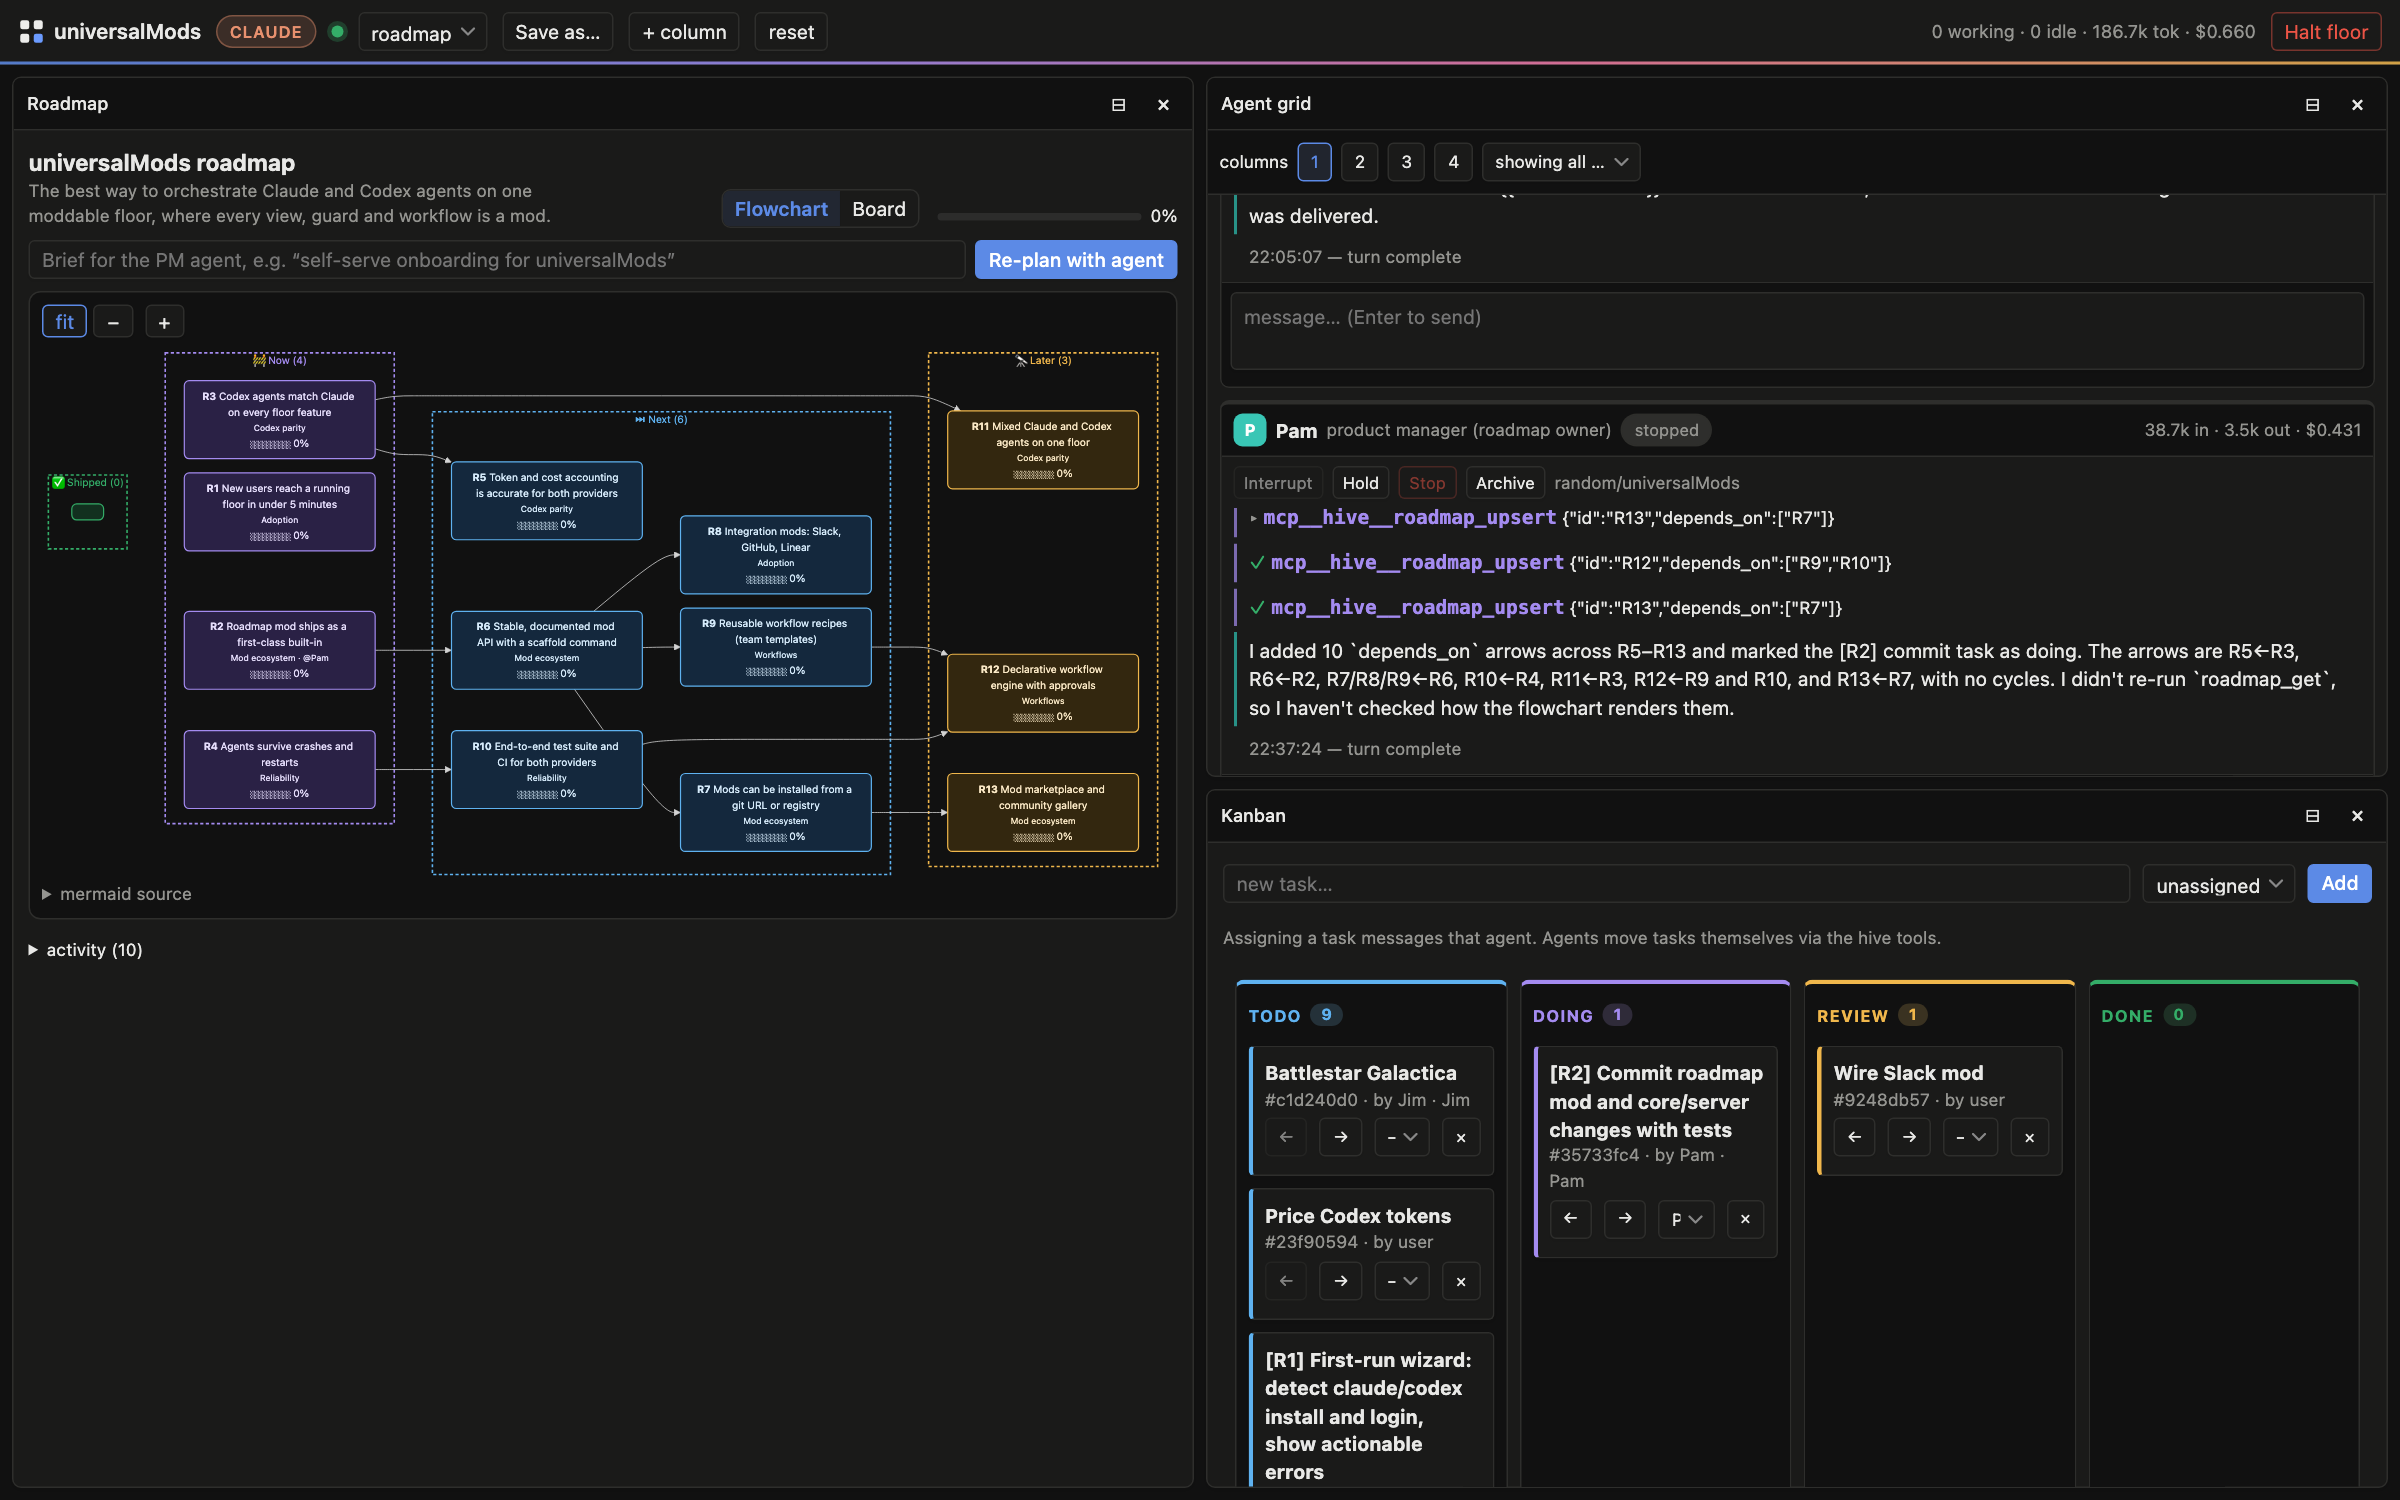
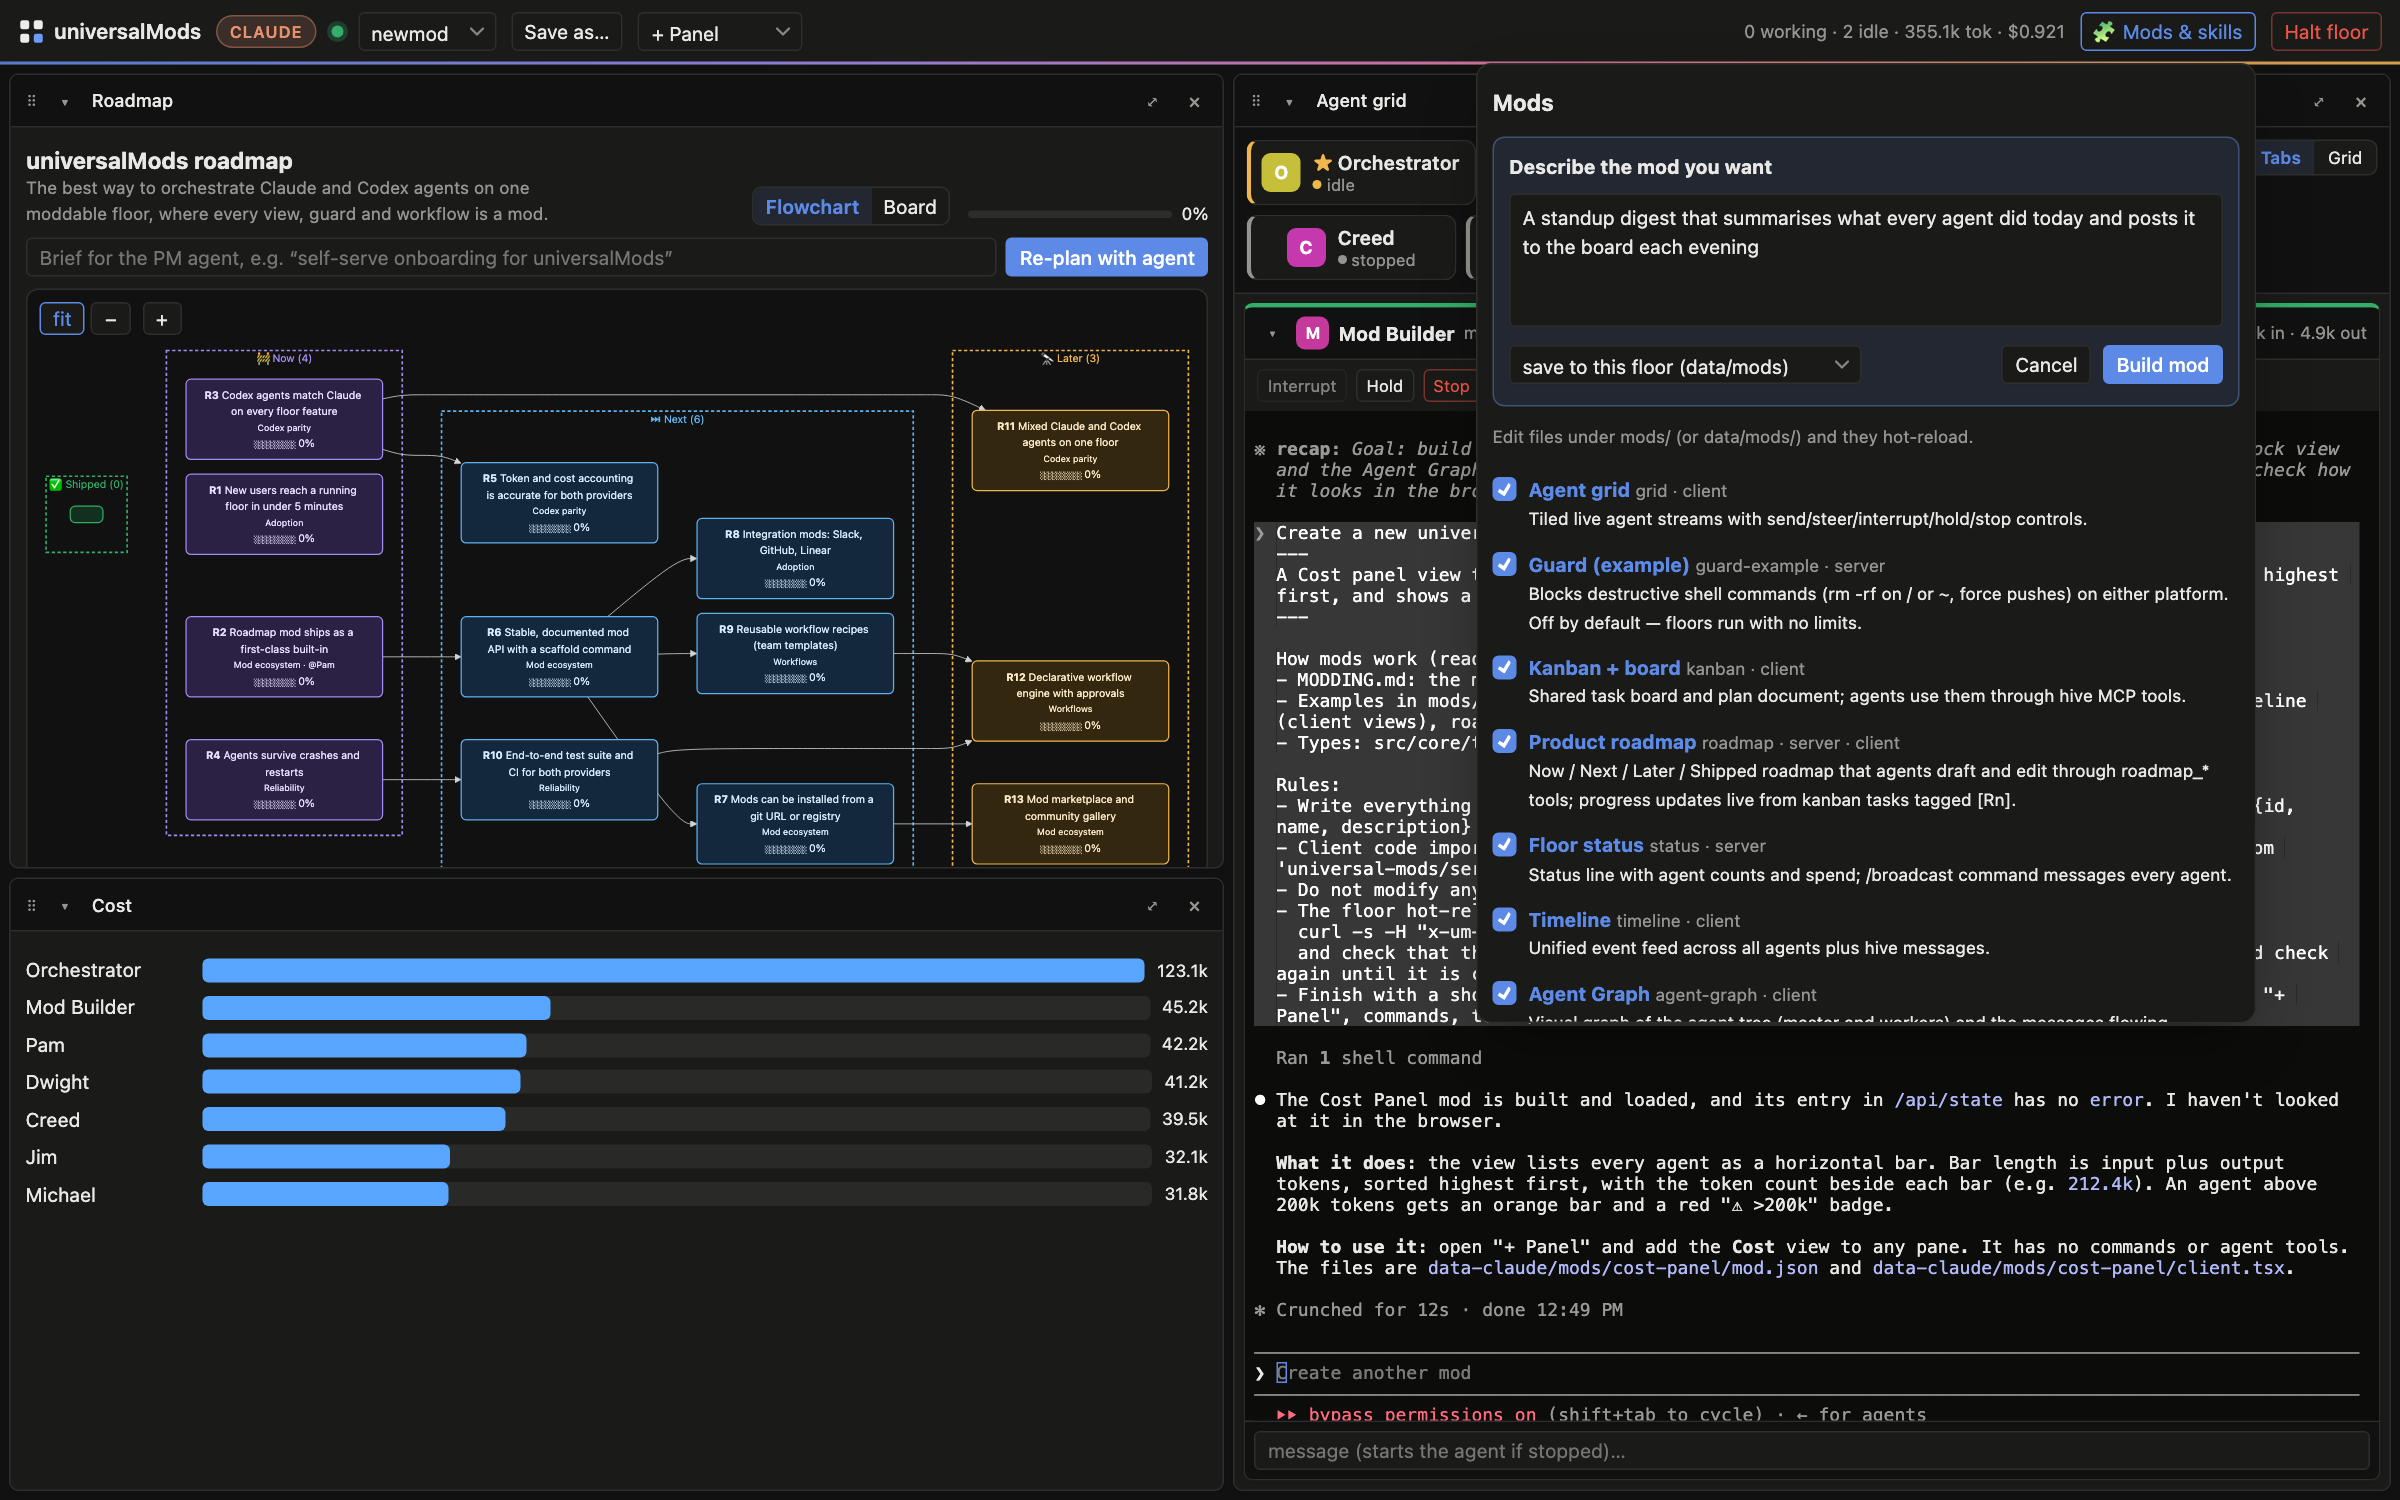
Showcase layout, refreshed screenshots, npm run screenshots
- Built-in 'showcase' layout: agent tiles + live terminal | roadmap flowchart over kanban
- scripts/screenshots.mjs (npm run screenshots) regenerates docs/screenshots via headless Chrome
- New screenshots for README and GitHub Pages; Pages features updated (live terminals,
  mods from a sentence) and quick start mentions ?layout=showcase
- Mod Builder briefs use project-relative paths
- Client mod loading retries with a fresh URL and toasts once instead of on every update

diff --git a/docs/index.html b/docs/index.html
@@ -8,7 +8,7 @@
     <link rel="icon" type="image/svg+xml" href="favicon.svg" />
     <meta property="og:title" content="universalMods" />
     <meta property="og:description" content="Munder Difflin-style agent orchestration meets Claude Code mods, for Codex and Claude Code, in the browser." />
-    <meta property="og:image" content="https://samridh3215.github.io/universalMods/screenshots/roadmap.png" />
+    <meta property="og:image" content="https://samridh3215.github.io/universalMods/screenshots/floor.png" />
     <meta name="twitter:card" content="summary_large_image" />
     <meta name="theme-color" media="(prefers-color-scheme: light)" content="#f0f0ed" />
     <meta name="theme-color" media="(prefers-color-scheme: dark)" content="#111111" />
@@ -150,8 +150,8 @@
           <a class="btn" href="https://github.com/samridh3215/universalMods">View on GitHub</a>
           <a class="btn" href="https://github.com/samridh3215/universalMods/blob/main/MODDING.md">Write a mod</a>
         </div>
-        <div class="shot dark-only"><img src="screenshots/floor.png" alt="The universalMods floor: live agent grid with a + tile to spawn agents, kanban and mods" /></div>
-        <div class="shot light-only"><img src="screenshots/roadmap-light.png" alt="The universalMods floor with the roadmap flowchart" /></div>
+        <div class="shot dark-only"><img src="screenshots/floor.png" alt="The universalMods showcase layout: agent tiles with the orchestrator's live terminal, the roadmap flowchart and the kanban" /></div>
+        <div class="shot light-only"><img src="screenshots/roadmap-light.png" alt="The universalMods showcase layout in light mode" /></div>
       </div>
     </header>
 
@@ -178,14 +178,14 @@
         <h2>What you get</h2>
         <p class="sub">A thin shell, with everything else built as a mod you can change.</p>
         <div class="grid">
-          <div class="card" style="--c: var(--accent)"><h3><span class="icon">🚀</span> Spawn and steer</h3><p>Spawn agents with their own working directory or git worktree, model, effort and skills. Watch them live, then steer mid-turn, interrupt, hold or stop.</p></div>
+          <div class="card" style="--c: var(--accent)"><h3><span class="icon">🖥</span> Live terminals</h3><p>Every agent runs its real CLI. Click its tile and its terminal fills the pane: watch it work, type into it, or queue messages. A permanent master orchestrator is always there.</p></div>
           <div class="card" style="--c: var(--violet)"><h3><span class="icon">🐝</span> A shared hive</h3><p>Every agent gets hive tools: a kanban, a plan board, messages to other agents, spawning teammates, and <code>ask_user</code> when stuck.</p></div>
           <div class="card" style="--c: var(--pink)"><h3><span class="icon">🗺</span> Live roadmap</h3><p>A PM agent drafts a roadmap from your brief and renders it as a Mermaid flowchart. Progress moves as tagged kanban tasks get done.</p></div>
           <div class="card" style="--c: var(--amber)"><h3><span class="icon">🛡</span> No limits, with guards</h3><p>Agents run unrestricted by default. A mod can still deny a dangerous call before it runs, on either platform.</p></div>
           <div class="card" style="--c: var(--teal)"><h3><span class="icon">🧱</span> Your layout</h3><p>Put any view in any pane: grid, timeline, kanban, roadmap or your own. Save named layouts and share them with <code>?layout=</code>.</p></div>
-          <div class="card" style="--c: var(--ok)"><h3><span class="icon">♻</span> Hot reload</h3><p>Save a file under <code>mods/</code> and the server and browser reload that mod in place, with no restart.</p></div>
+          <div class="card" style="--c: var(--ok)"><h3><span class="icon">✨</span> Mods from a sentence</h3><p>Describe a mod in plain English. A Mod Builder agent writes it, checks it loads, and it hot-reloads straight into your floor.</p></div>
         </div>
-        <div class="shot dark-only" style="margin-top: 40px"><img src="screenshots/roadmap.png" alt="Roadmap mod rendered as a live Mermaid flowchart" /></div>
+        <div class="shot dark-only" style="margin-top: 40px"><img src="screenshots/roadmap.png" alt="The roadmap flowchart, a Cost panel mod written by the Mod Builder agent, and the New mod form" /></div>
       </div>
     </section>
 
@@ -248,7 +248,7 @@
           <div class="step"><div><strong>Clone and install</strong><pre>git clone https://github.com/samridh3215/universalMods.git
 cd universalMods && npm install</pre></div></div>
           <div class="step"><div><strong>Start a floor</strong><pre>npm run dev -- --provider codex     # or: --provider claude</pre></div></div>
-          <div class="step"><div><strong>Open the printed URL</strong> (it includes <code>?token=…</code>), spawn agents, and drop your own mods into <code>mods/</code>.</div></div>
+          <div class="step"><div><strong>Open the printed URL</strong> (it includes <code>?token=…</code>). Add <code>&amp;layout=showcase</code> for the view in the screenshots, spawn agents, and build mods from the 🧩 menu.</div></div>
         </div>
         <p class="note" style="margin-top: 24px">⚠ Agents run with no permission limits and can do anything your user account can. The server binds to <code>127.0.0.1</code> and requires the per-run token.</p>
       </div>

diff --git a/src/server/mod-builder.ts b/src/server/mod-builder.ts
@@ -11,16 +11,19 @@ const ROOT = path.resolve(path.dirname(fileURLToPath(import.meta.url)), '../..')
  */
 export async function createMod(floor: Floor, description: string, target: 'floor' | 'project' = 'floor') {
   if (!description.trim()) throw new Error('describe the mod you want');
-  const dir = target === 'project' ? path.join(ROOT, 'mods') : path.join(floor.o.dataDir, 'mods');
+  const abs = target === 'project' ? path.join(ROOT, 'mods') : path.join(floor.o.dataDir, 'mods');
+  // The builder works in the project root, so prefer short relative paths in its brief.
+  const rel = (p: string) => (p.startsWith(ROOT + path.sep) ? path.relative(ROOT, p) : p);
+  const dir = rel(abs);
   const brief = `Create a new universalMods mod from this description:
 ---
 ${description.trim()}
 ---
 
 How mods work (read these first):
-- ${path.join(ROOT, 'MODDING.md')}: the mod API (server hooks, $ context, client views, agent tools).
-- Examples in ${path.join(ROOT, 'mods')}: status (small server mod), guard-example (tool guard), kanban and timeline (client views), roadmap (server + client + agent tools).
-- Types: ${path.join(ROOT, 'src/core/types.ts')} (server) and ${path.join(ROOT, 'src/web/mod-api.ts')} (client SDK).
+- MODDING.md: the mod API (server hooks, $ context, client views, agent tools).
+- Examples in mods/: status (small server mod), guard-example (tool guard), kanban and timeline (client views), roadmap (server + client + agent tools).
+- Types: src/core/types.ts (server) and src/web/mod-api.ts (client SDK).
 
 Rules:
 - Write everything into a new folder ${dir}/<mod-id>/ (kebab-case id): mod.json {id, name, description} plus server.ts and/or client.tsx.

diff --git a/src/web/main.tsx b/src/web/main.tsx
@@ -13,16 +13,26 @@ const loaded = new Map<string, number>();
 let chain = Promise.resolve();
 
 // Imports run one at a time so registerView() calls are attributed to the right mod.
+// Browsers cache a failed dynamic import per URL, so retries use a fresh URL (&a=n);
+// a version that keeps failing is reported once and not retried until it changes.
+const failed = new Map<string, { version: number; attempts: number }>();
+
 function loadMod(id: string, version: number) {
+  const f = failed.get(id);
+  if (f?.version === version && f.attempts >= 3) return;
   chain = chain.then(async () => {
     if (loaded.get(id) === version) return;
+    const attempt = failed.get(id)?.version === version ? failed.get(id)!.attempts : 0;
     UM._internal.dropMod(id);
     UM._internal.setCurrentMod(id);
     try {
-      await import(/* @vite-ignore */ `/mods/${encodeURIComponent(id)}/client.js?token=${encodeURIComponent(token)}&v=${version}`);
+      await import(/* @vite-ignore */ `/mods/${encodeURIComponent(id)}/client.js?token=${encodeURIComponent(token)}&v=${version}&a=${attempt}`);
       loaded.set(id, version);
+      failed.delete(id);
     } catch (e: any) {
-      toast(`client mod ${id} failed: ${e.message}`, 'error');
+      failed.set(id, { version, attempts: attempt + 1 });
+      if (attempt + 1 >= 3) toast(`client mod ${id} failed to load: ${e.message}`, 'error');
+      else setTimeout(() => loadMod(id, version), 800 * (attempt + 1));
     } finally {
       UM._internal.setCurrentMod(undefined);
     }

diff --git a/src/web/shell.tsx b/src/web/shell.tsx
@@ -13,6 +13,18 @@ const PRESETS: Record<string, Layout> = {
   plan: fromViews([['kanban'], ['board', 'timeline']]),
   focus: fromViews([[{ view: 'grid', params: { columns: 1 } }]]),
   roadmap: fromViews([[{ view: 'roadmap', params: { mode: 'flow' } }], [{ view: 'grid', params: { columns: 1 } }, 'kanban']]),
+  // Everything at a glance: agent tiles + live terminal | roadmap flowchart over the kanban.
+  showcase: [
+    { id: 'show-a', size: 1.1, panes: [{ id: 'show-grid', view: 'grid', params: { mode: 'tabs' } }] },
+    {
+      id: 'show-b',
+      size: 1,
+      panes: [
+        { id: 'show-roadmap', view: 'roadmap', size: 1.25, params: { mode: 'flow' } },
+        { id: 'show-kanban', view: 'kanban', size: 1 },
+      ],
+    },
+  ],
 };
 
 function loadLayouts(): Record<string, Layout> {

diff --git a/README.md b/README.md
@@ -15,13 +15,15 @@ The shell is deliberately thin. Every view, guard, status line and command is a 
 
 Inspired by [Munder Difflin](https://github.com/HarnessMD/munder-difflin) (agent orchestration as an office floor) and Claude Code mods (hackable harness hooks).
 
-![The floor: live agent grid with a + tile to spawn agents, kanban and mods](docs/screenshots/floor.png)
+![Showcase layout: agent tiles with the orchestrator's live terminal, the roadmap flowchart and the kanban](docs/screenshots/floor.png)
 
-![Roadmap mod: a live Mermaid flowchart drafted and updated by a PM agent](docs/screenshots/roadmap.png)
+*Try it: open your floor with `&layout=showcase`.*
+
+![The roadmap flowchart, a Cost panel mod written by the Mod Builder agent from one sentence, and the New mod form](docs/screenshots/roadmap.png)
 
 <details><summary>Light mode</summary>
 
-![Roadmap in light mode](docs/screenshots/roadmap-light.png)
+![Showcase layout in light mode](docs/screenshots/roadmap-light.png)
 
 </details>
 
@@ -55,7 +57,7 @@ Requirements:
 | "Needs you" tray | Shows `ask_user` questions. The agent blocks until you answer |
 | Floor controls | Halt/resume the whole floor, `/broadcast` (status mod), status line with token and $ totals |
 | Roadmap | A live Mermaid flowchart (Shipped → Now → Next → Later, with dependency arrows) or a board. A PM agent drafts it from a brief, and progress moves as kanban tasks tagged `[R3]` get done |
-| Workspace | LeetCode-style panes: drag dividers to resize, drag a pane by its header onto another pane's edge to dock it (or its centre to swap), collapse panes to their title bar (a fully collapsed column folds into a strip), maximize any pane. **+ Panel** adds a view. Save named layouts (`ops`, `plan`, `focus`, `roadmap` built in) and open one with `?layout=<name>` |
+| Workspace | LeetCode-style panes: drag dividers to resize, drag a pane by its header onto another pane's edge to dock it (or its centre to swap), collapse panes to their title bar (a fully collapsed column folds into a strip), maximize any pane. **+ Panel** adds a view. Save named layouts (`ops`, `plan`, `focus`, `roadmap`, `showcase` built in) and open one with `?layout=<name>` |
 | Mods & skills | In the top bar (🧩), not in a pane: toggle mods, run mod commands, browse skills |
 | No limits | Claude uses `bypassPermissions`. Codex uses `danger-full-access` and approval `never`. Guards are opt-in mods |
 
@@ -96,7 +98,7 @@ Agents run with **no permission limits** and can do anything your user account c
 
 ## Scripts
 
-`npm test` runs the unit tests (vitest). `npm run build` runs `tsc` and then bundles the shell and every mod for both platforms.
+`npm test` runs the unit tests (vitest). `UM_TOKEN=<token> npm run screenshots` refreshes `docs/screenshots` from a running floor. `npm run build` runs `tsc` and then bundles the shell and every mod for both platforms.
 
 ## License
 
